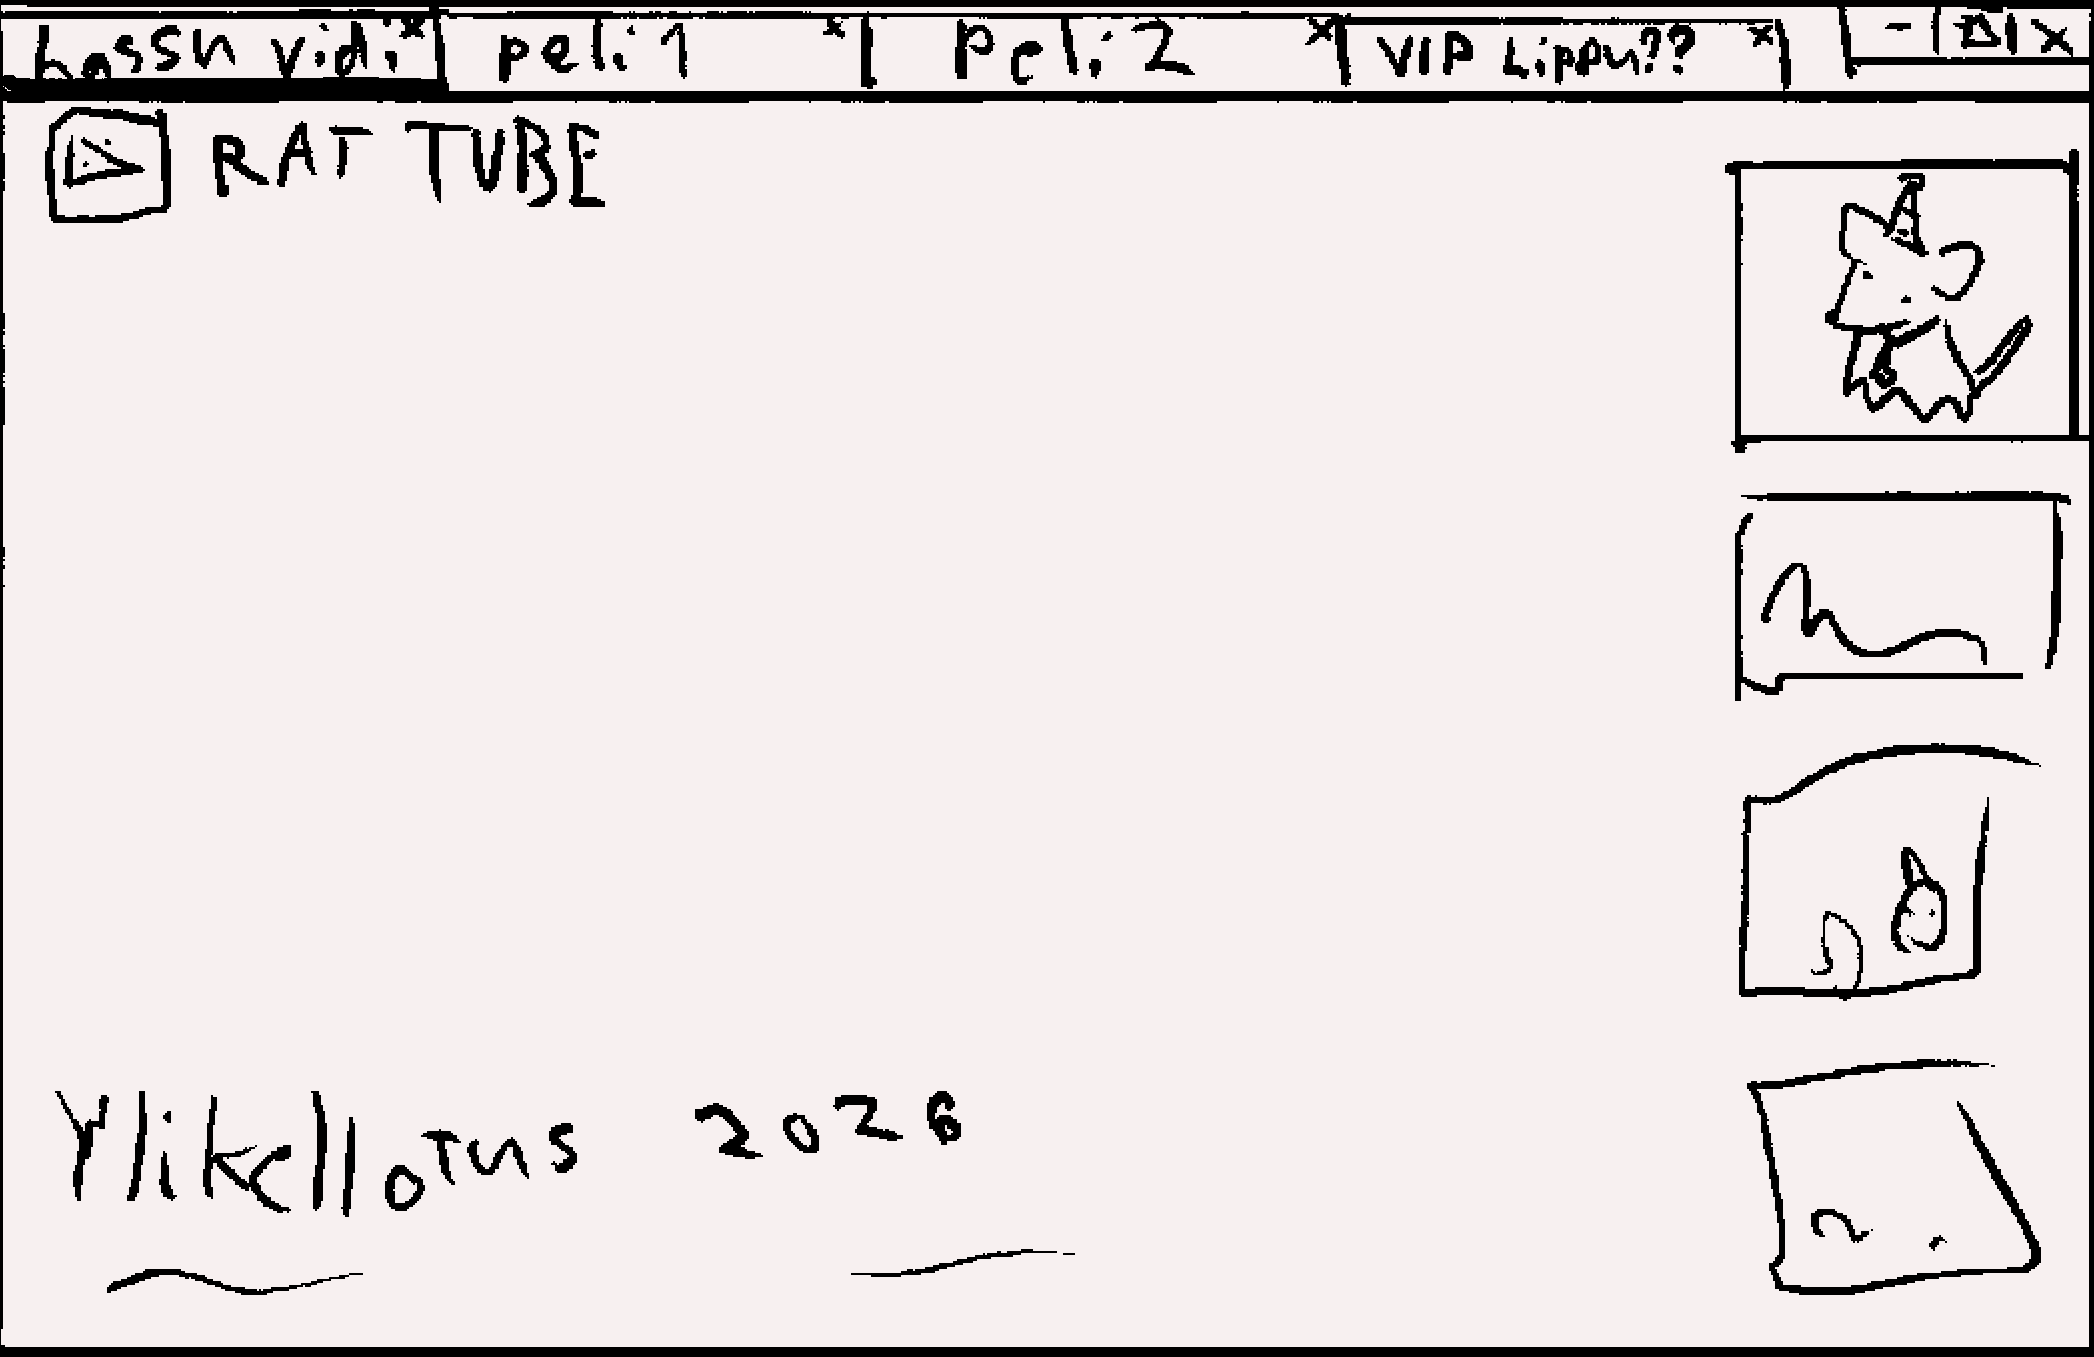
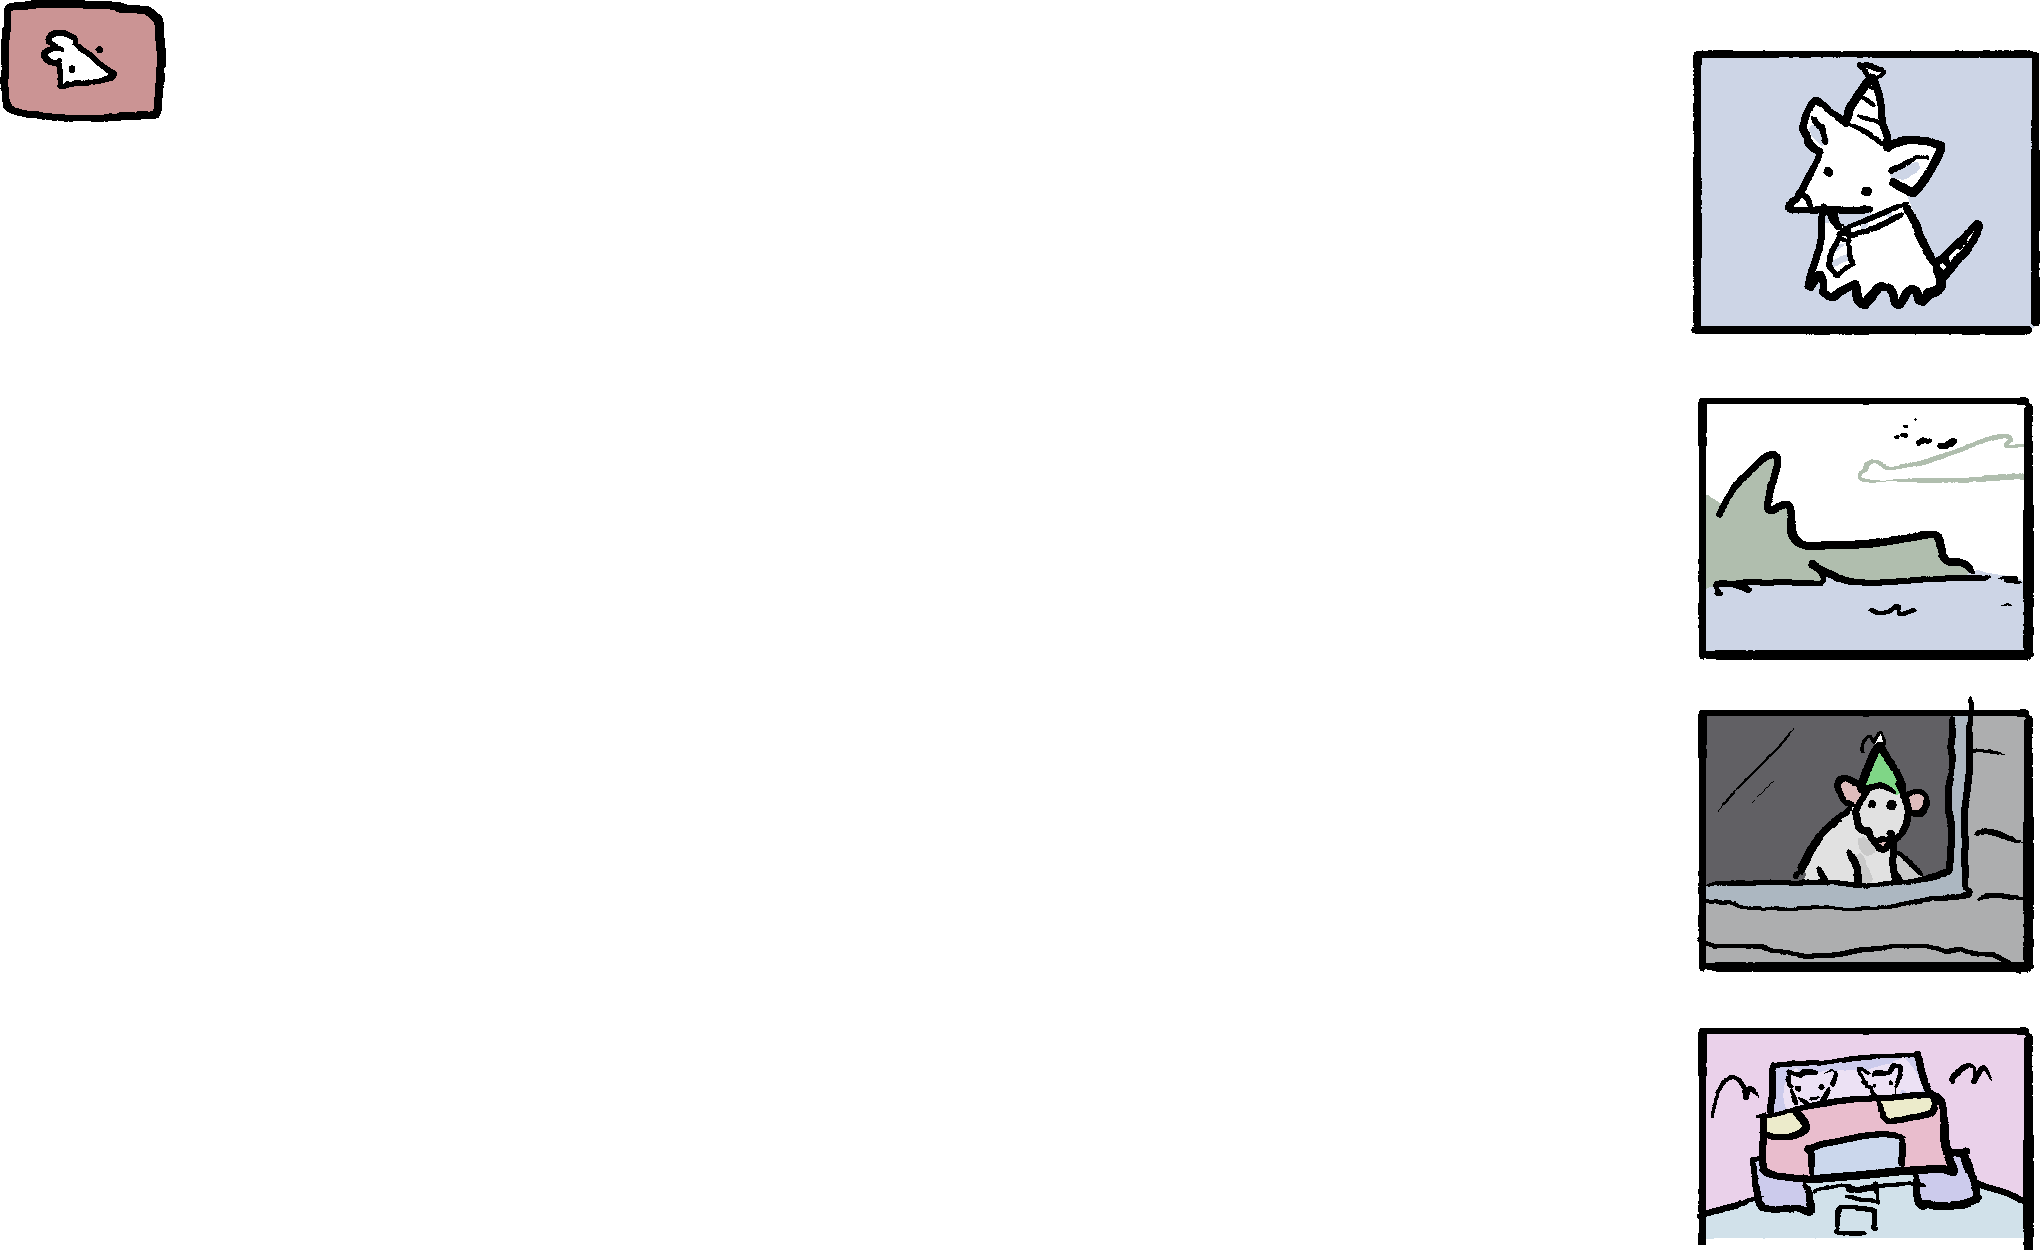
feat: replace placeholder art with final versions

diff --git a/components/RatScene.tsx b/components/RatScene.tsx
@@ -10,7 +10,7 @@ export default function RatScene() {
                         alt="Rat left"
                         className="w-[40%] object-contain"/>
                     <img
-                        src="/assets/osta1.png"
+                        src="/assets/osta.png"
                         alt="Rat right"
                         className="w-[40%] object-contain"/>
                 </div>
